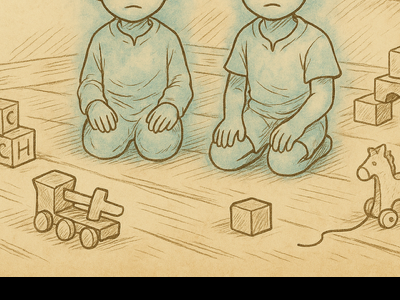
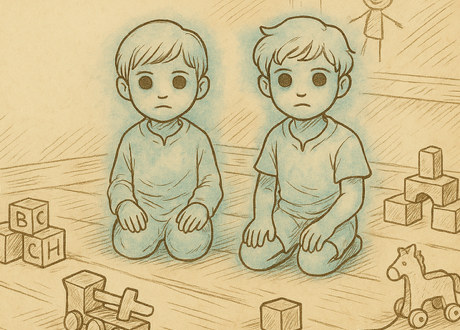
Comprehensive exception handling fixes and improvements
## 1. Fix Ghost Boys Reaction Crop
- Removed black bar at bottom
- Included faces properly (adjusted crop box from y:150-450 to y:50-380)
- Updated crop_npc_faces.py for future reference

## 2. Expand Encampment Restrictions for ALL Boss Floors
**Critical Fix**: Encampment can trivialize boss encounters by killing them early

Added restrictions for:
- Floor 8 → prevents trivializing Floor 9 Solo Dragon
- Floor 10 → already existed (Floor 11 Ambush)
- Floor 14 → prevents trivializing Floor 15 Triple Dragon
- Floor 18 → prevents trivializing Floor 19 Final Dragon Army

**Code**: index.html:716-723 - getNeutralEncounter()

## 3. Fix Critical Bug: Quest Flags Not Resetting on Death
**Issue**: All temporary neutral state persisted across death/new runs
**Impact**: Could cause Oracle prophecies, Wizard sigils, Prince quests,
           silver keys, etc. to carry over into new runs

**Solution**: Added explicit reset block in start() function for:
- silverKeyHeld (Treasure Chest)
- oracleHero, oracleRoll, oracleStat (Oracle)
- wizardSigil (Wizard)
- treasureSecretCompartment (Treasure Chest)
- princeQuestActive, princeQuestCompleted, princeQuestAmbushed (Prince)
- ambushed (Encampment/Floor 11)

**Code**: index.html:1413-1423 - start()

## 4. Verified Safe Edge Cases
- **Oracle Stage 2 with dead hero**: Works correctly (applies to hero in Last Stand)
- **Wizard Stage 2 with no heroes having sigil**: Safely skips encounter
[…]

diff --git a/index.html b/index.html
@@ -713,8 +713,12 @@ const base = S.lastNeutral.replace(/[12]$/, '');
 available = available.filter(n => !n.startsWith(base));
 }
 
-// Floor 10: NEVER allow Enemy Encampment (Floor 11 is always ambush)
-if(S.floor === 10) {
+// NEVER allow Enemy Encampment before boss/special floors
+// Floor 8 → Floor 9 Solo Dragon
+// Floor 10 → Floor 11 Ambush (Goblin Army)
+// Floor 14 → Floor 15 Triple Dragon
+// Floor 18 → Floor 19 Final Dragon Army
+if(S.floor === 8 || S.floor === 10 || S.floor === 14 || S.floor === 18) {
 available = available.filter(n => !n.startsWith('encampment'));
 }
 
@@ -1406,6 +1410,17 @@ hero.h += 5;
 }
 });
 initNeutralDeck();
+// Reset temporary neutral state (resets on death)
+S.silverKeyHeld = false;
+S.oracleHero = null;
+S.oracleRoll = null;
+S.oracleStat = null;
+S.wizardSigil = null;
+S.treasureSecretCompartment = false;
+S.princeQuestActive = false;
+S.princeQuestCompleted = false;
+S.princeQuestAmbushed = false;
+S.ambushed = false;
 upd();
 // Check if player has starting XP from Death Boy sacrifices
 if(S.startingXP > 0) {

diff --git a/crop_npc_faces.py b/crop_npc_faces.py
@@ -55,7 +55,7 @@ def main():
     crop_and_save(
         f'{assets_dir}/ghost1.png',
         f'{reactions_dir}/ghost-boys.png',
-        (150, 150, 550, 450)  # The two ghost boys
+        (120, 50, 580, 380)  # The two ghost boys with faces
     )
 
     print()
